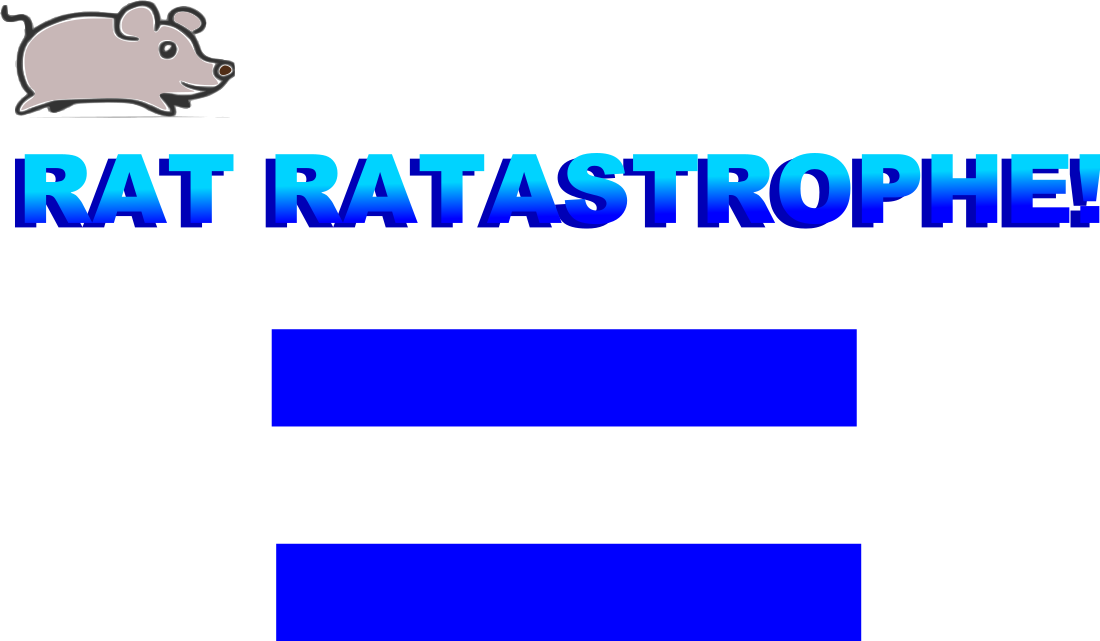
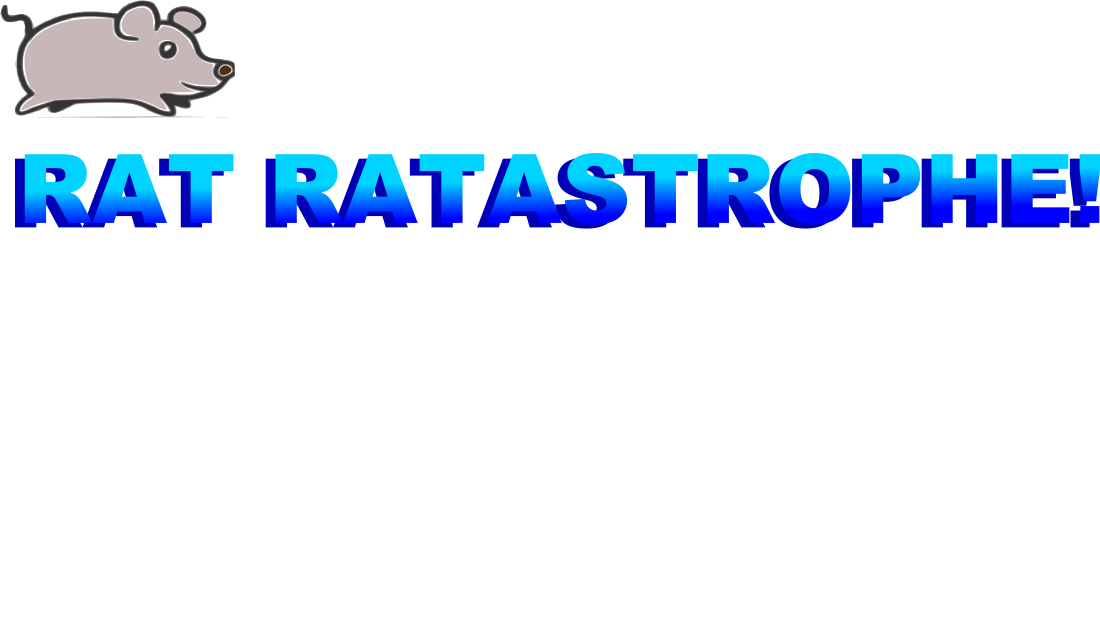
Fixed buttons

Changed region(s): [[0.2473, 0.8424, 0.8036, 1.0], [0.2473, 0.4992, 0.8036, 0.6864]]

diff --git a/scenes/EndScene.js b/scenes/EndScene.js
@@ -1,45 +1,40 @@
 class EndScene extends Phaser.Scene {
     constructor() {
-        super({key: 'endScene'});
+        super({ key: 'endScene' });
     }
 
     preload() {
         this.load.image('endScene', 'assets/endScene.png');
+        this.load.image('restartButton', 'assets/restartButton.png');
+        this.load.image('quitButton', 'assets/quitButton2.png');
     }
 
     create() {
         //title
-        var img = this.add.image(game.config.width, 
+        var img = this.add.image(game.config.width,
             game.config.height, 'endScene');
         img.scale = 0.18
         img.setOrigin(1.5, 1.3);
+        var highscore = this.add.text('High score: ');
 
-        //button play
-        this.buttonPlay = this.add.text(game.config.width/2 - 25,
-            game.config.height/2 + 40, 'RESTART',
-        {fill: '#FFFFFF'});
-        this.buttonPlay.setInteractive();
-        this.buttonPlay.on('pointerdown', () => { 
+        //button restart
+        var restartButton = this.add.image(game.config.width,
+            game.config.height, 'restartButton');
+        restartButton.scale = 0.18
+        restartButton.setOrigin(2.1, 5);
+        restartButton.setInteractive();
+        restartButton.on('pointerdown', () => {
             this.clickButton();
         });
-
-        //button quit
-        this.buttonQuit = this.add.text(game.config.width/2 - 12,
-            game.config.height/1.35 - 5, 'QUIT',
-        {fill: '#FFFFFF'});
-        this.buttonQuit.setInteractive();
-        this.buttonQuit.on('pointerdown', () => { 
+        // button quit
+        var quitButton = this.add.image(game.config.width,
+            game.config.height, 'quitButton');
+        quitButton.scale = 0.18
+        quitButton.setOrigin(2.1, 3.5);
+        quitButton.setInteractive();
+        quitButton.on('pointerdown', () => {
             this.clickButton();
         });
-
-        //button
-        // this.buttonPlay = this.add.text(game.config.width/2,
-        //     game.config.height/2, 'PLAY',
-        // {fill: '#00FF00'});
-        // this.buttonPlay.setInteractive();
-        // this.buttonPlay.on('pointerdown', () => { 
-        //     console.log('pointerdown'); 
-        // });
     }
 
     clickButton() {

diff --git a/scenes/TitleScene.js b/scenes/TitleScene.js
@@ -1,34 +1,28 @@
 class TitleScene extends Phaser.Scene {
     constructor() {
-        super({key: 'titleScene'});
+        super({ key: 'titleScene' });
     }
 
     preload() {
         this.load.image('titleScreen', 'assets/Title.png');
+        this.load.image('playButton', 'assets/playButton.png');
     }
 
     create() {
+
+
         //title
-        var img = this.add.image(game.config.width, 
+        var title = this.add.image(game.config.width,
             game.config.height, 'titleScreen');
-        img.scale = 0.5
-        img.setOrigin(1.25, 1.4);
+        title.scale = 0.5
+        title.setOrigin(1.25, 1.4);
 
-        //button play
-        this.buttonPlay = this.add.text(game.config.width/2 - 5,
-            game.config.height/2 - 3, 'PLAY',
-        {fill: '#FFFFFF'});
-        this.buttonPlay.setInteractive();
-        this.buttonPlay.on('pointerdown', () => { 
-            this.clickButton();
-        });
-
-        //button quit
-        this.buttonQuit = this.add.text(game.config.width/2 - 5,
-            game.config.height/1.4 - 10, 'QUIT',
-        {fill: '#FFFFFF'});
-        this.buttonQuit.setInteractive();
-        this.buttonQuit.on('pointerdown', () => { 
+        var playButton = this.add.image(game.config.width,
+            game.config.height, 'playButton');
+        playButton.scale = 0.5
+        playButton.setOrigin(1.9, 5);
+        playButton.setInteractive();
+        playButton.on('pointerdown', () => {
             this.clickButton();
         });
     }
